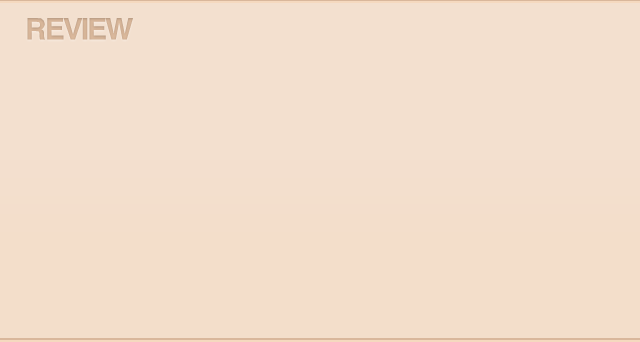
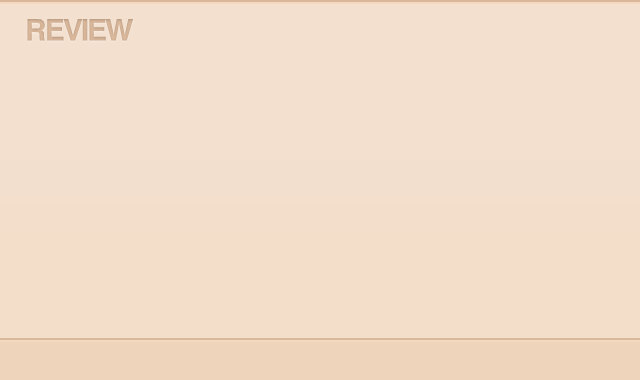
ShareViewController 셀 배경 설정, 셀 간격 조정

Changed region(s): [[0.0, 0.9649, 1.0, 0.9942], [0.0, 0.8772, 1.0, 0.9064], [0.0312, 0.0585, 0.2188, 0.117]]

diff --git a/I'm Traveling/Classes/Views/InfoCell.m b/I'm Traveling/Classes/Views/InfoCell.m
@@ -28,40 +28,40 @@
 		
 		_shareViewController = shareViewController;
 		
-		minusButton = [[UIButton alloc] initWithFrame:CGRectMake( 9, 26, 20, 20 )];
+		minusButton = [[UIButton alloc] initWithFrame:CGRectMake( 9, 32, 20, 20 )];
 		minusButton.tag = row;
 		[minusButton setBackgroundImage:[UIImage imageNamed:@"minus.png"] forState:UIControlStateNormal];
 		[minusButton addTarget:_shareViewController action:@selector(minusButtonDidTouchUpInside:) forControlEvents:UIControlEventTouchUpInside];
 		[self addSubview:minusButton];
 		
-		UIImageView *postIt = [[UIImageView alloc] initWithFrame:CGRectMake( 40, 0, 260, 68 )];
+		UIImageView *postIt = [[UIImageView alloc] initWithFrame:CGRectMake( 40, 6, 260, 68 )];
 		postIt.image = [UIImage imageNamed:@"postit.png"];
 		[self addSubview:postIt];
 		
 		// Item
-		UILabel *itemLabel = [self createInfoLabelWithText:@"Item" andFrame:CGRectMake( 54, 7, 50, 20 )];
+		UILabel *itemLabel = [self createInfoLabelWithText:@"Item" andFrame:CGRectMake( 54, 13, 50, 20 )];
 		[self addSubview:itemLabel];
 		
-		itemInput = [self createInfoInputWithPlaceholder:@"Item" row:row andFrame:CGRectMake( 105, 8, 200, 20 )];
+		itemInput = [self createInfoInputWithPlaceholder:@"Item" row:row andFrame:CGRectMake( 105, 14, 200, 20 )];
 		itemInput.textColor = [UIColor colorWithRed:0.419 green:0.258 blue:0.098 alpha:1.0];
 		[itemInput addTarget:_shareViewController action:@selector(itemInputEdittingChanged:) forControlEvents:UIControlEventEditingChanged];
 		[self addSubview:itemInput];
 		
 		// Value
-		UILabel *valueLabel = [self createInfoLabelWithText:@"Value" andFrame:CGRectMake( 54, 32, 50, 20 )];
+		UILabel *valueLabel = [self createInfoLabelWithText:@"Value" andFrame:CGRectMake( 54, 38, 50, 20 )];
 		[self addSubview:valueLabel];
 		
-		valueInput = [self createInfoInputWithPlaceholder:@"Value" row:row andFrame:CGRectMake( 105, 33, 70, 20 )];
+		valueInput = [self createInfoInputWithPlaceholder:@"Value" row:row andFrame:CGRectMake( 105, 39, 70, 20 )];
 		valueInput.textColor = [UIColor colorWithRed:0.678 green:0.243 blue:0.337 alpha:1.0];
 		valueInput.keyboardType = UIKeyboardTypeNumberPad;
 		[valueInput addTarget:_shareViewController action:@selector(valueInputEdittingChanged:) forControlEvents:UIControlEventEditingChanged];
 		[self addSubview:valueInput];
 		
 		// Unit
-		UILabel *unitLabel = [self createInfoLabelWithText:@"Unit" andFrame:CGRectMake( 185, 32, 50, 20 )];
+		UILabel *unitLabel = [self createInfoLabelWithText:@"Unit" andFrame:CGRectMake( 185, 38, 50, 20 )];
 		[self addSubview:unitLabel];
 		
-		unitButton = [[UIButton alloc] initWithFrame:CGRectMake( 210, 32, 70, 20 )];
+		unitButton = [[UIButton alloc] initWithFrame:CGRectMake( 210, 38, 70, 20 )];
 		unitButton.titleLabel.font = [UIFont systemFontOfSize:14];
 		[unitButton setTitle:@"KRW" forState:UIControlStateNormal];
 		[unitButton setTitleColor:[UIColor colorWithRed:0.231 green:0.180 blue:0.262 alpha:1.0] forState:UIControlStateNormal];

diff --git a/I'm Traveling/Classes/Views/ShareViewController.m b/I'm Traveling/Classes/Views/ShareViewController.m
@@ -160,13 +160,13 @@ enum {
 			return 150;
 			
 		case kSectionReview:
-			return 180;
+			return 190;
 			
 		case kSectionInfo:
-			return 68;
+			return 80;
 			
 		case kSectionAddInfo:
-			return 68;
+			return 80;
 	}
 	
 	return 44;
@@ -293,6 +293,10 @@ enum {
 		if( cell == nil )
 		{
 			cell = [[InfoCell alloc] initWithRow:indexPath.row shareViewController:self andReuseIdentifier:infoCellId];
+			
+			UIView *bg = [[UIView alloc] initWithFrame:cell.frame];
+			bg.backgroundColor = [UIColor colorWithRed:0.937 green:0.831 blue:0.737 alpha:1.0];
+			cell.backgroundView = bg;
 		}
 		else
 		{
@@ -314,12 +318,16 @@ enum {
 		cell = [[UITableViewCell alloc] init];
 		cell.selectionStyle = UITableViewCellSelectionStyleNone;
 		
-		UIButton *plusButton = [[UIButton alloc] initWithFrame:CGRectMake( 9, 21, 20, 20 )];
+		UIView *bg = [[UIView alloc] initWithFrame:cell.frame];
+		bg.backgroundColor = [UIColor colorWithRed:0.937 green:0.831 blue:0.737 alpha:1.0];
+		cell.backgroundView = bg;
+		
+		UIButton *plusButton = [[UIButton alloc] initWithFrame:CGRectMake( 9, 27, 20, 20 )];
 		[plusButton setBackgroundImage:[UIImage imageNamed:@"plus.png"] forState:UIControlStateNormal];
 		[plusButton addTarget:self action:@selector(plusButtonDidTouchUpInside) forControlEvents:UIControlEventTouchUpInside];
 		[cell addSubview:plusButton];
 		
-		UIButton *postIt = [[UIButton alloc] initWithFrame:CGRectMake( 39, 0, 260, 68 )];
+		UIButton *postIt = [[UIButton alloc] initWithFrame:CGRectMake( 39, 6, 260, 68 )];
 		[postIt setBackgroundImage:[UIImage imageNamed:@"postit_empty.png"] forState:UIControlStateNormal];
 		[postIt addTarget:self action:@selector(plusButtonDidTouchUpInside) forControlEvents:UIControlEventTouchUpInside];
 		[cell addSubview:postIt];
@@ -330,7 +338,12 @@ enum {
 	{
 		cell = [[UITableViewCell alloc] initWithStyle:UITableViewCellStyleDefault reuseIdentifier:nil];
 		cell.textLabel.text = @"Save to local";
+		cell.textLabel.backgroundColor = [UIColor clearColor];
 		cell.accessoryType = UITableViewCellAccessoryNone;
+		
+		UIView *bg = [[UIView alloc] initWithFrame:cell.frame];
+		bg.backgroundColor = [UIColor colorWithRed:0.937 green:0.831 blue:0.737 alpha:1.0];
+		cell.backgroundView = bg;
 	}
 	
 	return cell;
@@ -407,7 +420,7 @@ enum {
 	[_info addObject:info];
 	
 	[_tableView beginUpdates];
-	[_tableView insertRowsAtIndexPaths:[NSArray arrayWithObject:[NSIndexPath indexPathForRow:row inSection:kSectionInfo]] withRowAnimation:UITableViewRowAnimationTop];
+	[_tableView insertRowsAtIndexPaths:[NSArray arrayWithObject:[NSIndexPath indexPathForRow:row inSection:kSectionInfo]] withRowAnimation:UITableViewRowAnimationNone];
 	[_tableView endUpdates];
 }
 
